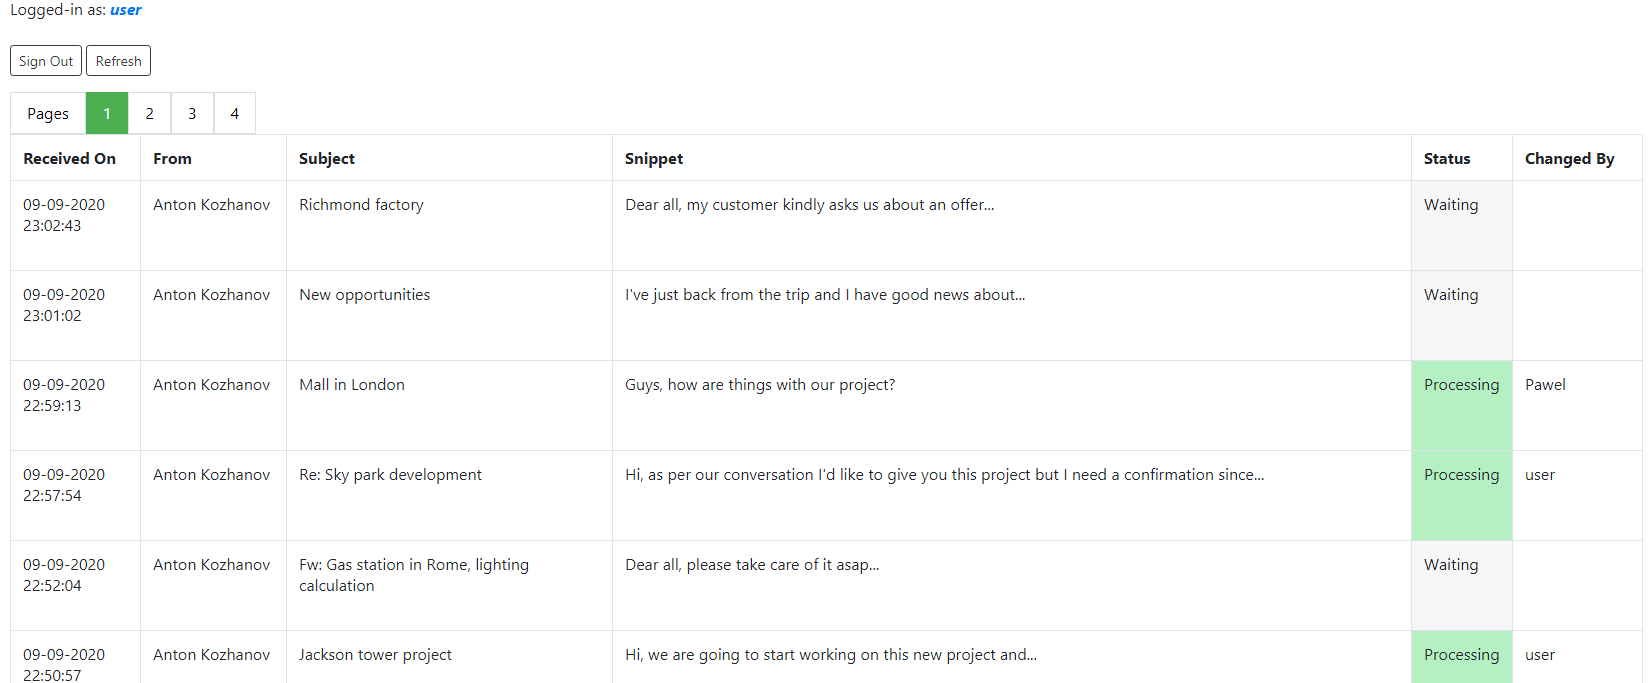
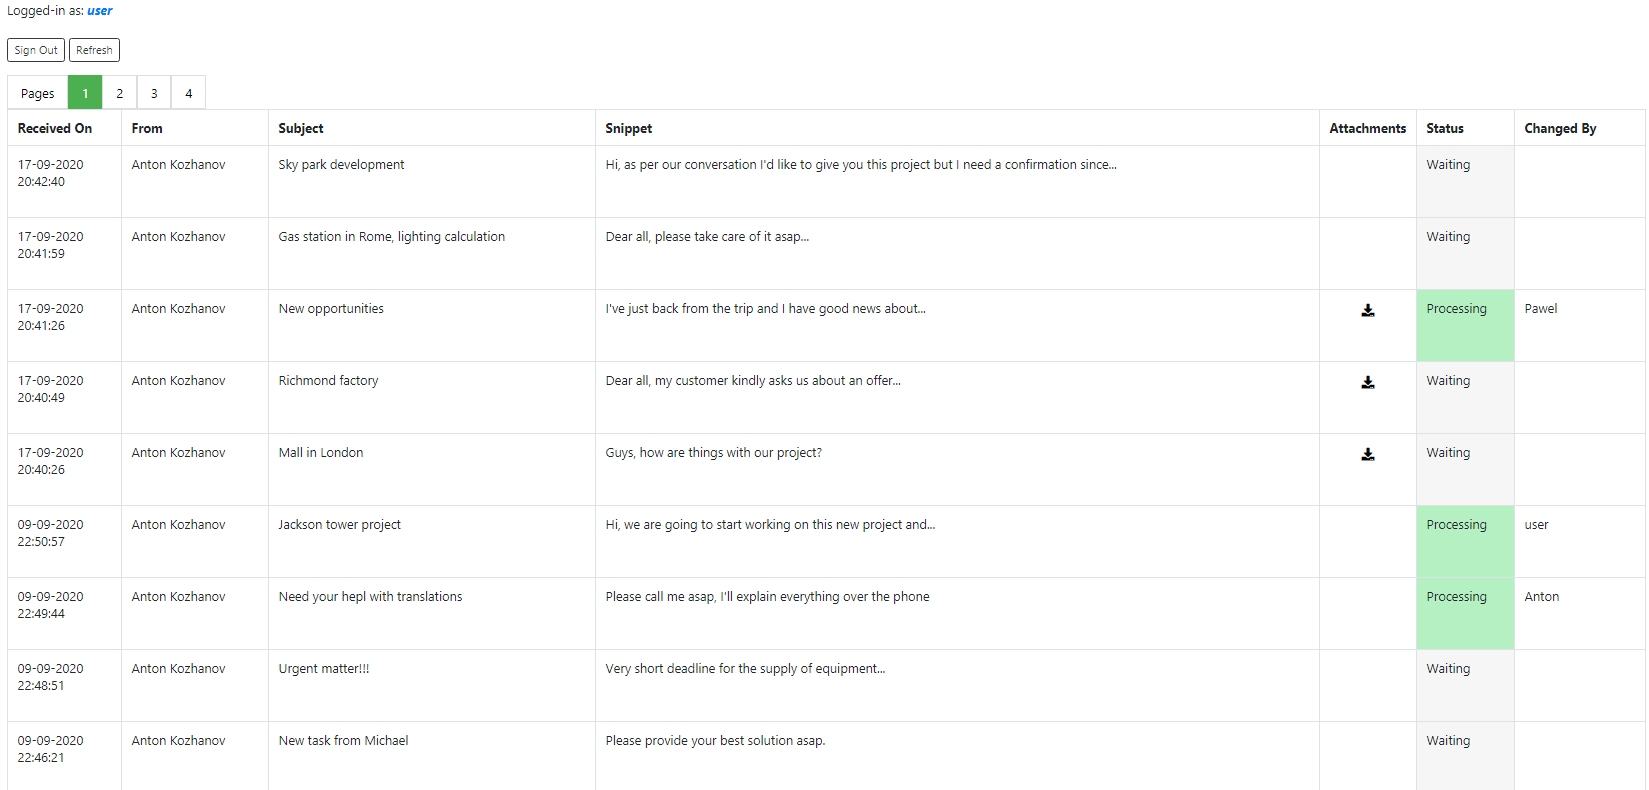
Download Attachments functionality

diff --git a/src/main/java/pl/kozhanov/TaskManager/service/TaskParserService.java b/src/main/java/pl/kozhanov/TaskManager/service/TaskParserService.java
@@ -9,26 +9,25 @@ import com.google.api.client.googleapis.javanet.GoogleNetHttpTransport;
 import com.google.api.client.http.javanet.NetHttpTransport;
 import com.google.api.client.json.JsonFactory;
 import com.google.api.client.json.jackson2.JacksonFactory;
+import com.google.api.client.util.Base64;
+import com.google.api.client.util.StringUtils;
 import com.google.api.client.util.store.FileDataStoreFactory;
 import com.google.api.services.gmail.Gmail;
 import com.google.api.services.gmail.GmailScopes;
-import com.google.api.services.gmail.model.ListMessagesResponse;
-import com.google.api.services.gmail.model.Message;
-import com.google.api.services.gmail.model.MessagePartHeader;
-import com.google.api.services.gmail.model.ModifyMessageRequest;
+import com.google.api.services.gmail.model.*;
 import org.springframework.stereotype.Component;
+import pl.kozhanov.TaskManager.domain.Attachment;
 import pl.kozhanov.TaskManager.domain.Task;
 
-import java.io.FileNotFoundException;
-import java.io.IOException;
-import java.io.InputStream;
-import java.io.InputStreamReader;
+import java.io.*;
 import java.security.GeneralSecurityException;
 import java.time.Instant;
 import java.util.ArrayList;
 import java.util.Collections;
 import java.util.List;
 import java.util.stream.Collectors;
+import java.util.zip.ZipEntry;
+import java.util.zip.ZipOutputStream;
 
 @Component
 public class TaskParserService {
@@ -83,12 +82,53 @@ public class TaskParserService {
         task.setEditBy("");
         task.setSnippet(newMessage.getSnippet());
         task.setReceivedAt(Instant.ofEpochMilli(newMessage.getInternalDate()));
-        task.setSentBy(getHeader(newMessage.getPayload().getHeaders(), FROM));
-        task.setSubject(getHeader(newMessage.getPayload().getHeaders(), SUBJECT));
+        task.setSentBy(getSpecifiedHeader(newMessage.getPayload().getHeaders(), FROM));
+        task.setSubject(getSpecifiedHeader(newMessage.getPayload().getHeaders(), SUBJECT));
+        task.setHasAttachment(checkIfHasAttachment(newMessage));
+        task.setMessageId(newMessage.getId());
         return task;
     }
 
-    public String getHeader(List<MessagePartHeader> headers, String name) {
+    private boolean checkIfHasAttachment(Message newMessage) {
+        List<MessagePart> part = newMessage.getPayload().getParts();
+        return part.stream().anyMatch(p -> p.getFilename() != null && p.getFilename().length() > 0);
+    }
+
+
+    public List<Attachment> collectAttachmentsBeforeZip(String messageId) throws GeneralSecurityException, IOException {
+        List<Attachment> attachmentList = new ArrayList<>();
+        Gmail service = getGmailService();
+        Message message = service.users().messages().get(USER_ID, messageId).execute();
+        List<MessagePart> part = message.getPayload().getParts();
+        for (MessagePart p : part) {
+            if (p.getFilename() != null && p.getFilename().length() > 0) {
+                String attId = p.getBody().getAttachmentId();
+                MessagePartBody attachPart = service.users().messages().attachments().get(USER_ID, p.getPartId(), attId).execute();
+                attachmentList.add(new Attachment(Base64.decodeBase64(attachPart.getData()), p.getFilename()));
+            }
+        }
+        return attachmentList;
+    }
+
+    public Attachment getZipAttachment(String messageId) throws IOException, GeneralSecurityException {
+        ByteArrayOutputStream baos = new ByteArrayOutputStream();
+        ZipOutputStream zos = new ZipOutputStream(baos);
+        for (Attachment attachment : collectAttachmentsBeforeZip(messageId)) {
+            String filename = attachment.getFileName();
+            ZipEntry entry = new ZipEntry(filename);
+            entry.setSize(attachment.getBody().length);
+            zos.putNextEntry(entry);
+            zos.write(attachment.getBody());
+            zos.closeEntry();
+        }
+        zos.close();
+        baos.close();
+        return new Attachment(baos.toByteArray(), "attachment.zip");
+
+    }
+
+
+    public String getSpecifiedHeader(List<MessagePartHeader> headers, String name) {
         return headers.stream()
                 .filter(header -> header.getName().equals(name))
                 .map(

diff --git a/src/main/java/pl/kozhanov/TaskManager/controller/EditTaskController.java b/src/main/java/pl/kozhanov/TaskManager/controller/EditTaskController.java
@@ -1,13 +1,20 @@
 package pl.kozhanov.TaskManager.controller;
 
 import org.springframework.beans.factory.annotation.Autowired;
+import org.springframework.core.io.ByteArrayResource;
+import org.springframework.core.io.Resource;
+import org.springframework.http.HttpHeaders;
+import org.springframework.http.MediaType;
+import org.springframework.http.ResponseEntity;
 import org.springframework.security.access.prepost.PreAuthorize;
 import org.springframework.stereotype.Controller;
-import org.springframework.web.bind.annotation.GetMapping;
-import org.springframework.web.bind.annotation.PathVariable;
-import org.springframework.web.bind.annotation.PostMapping;
-import org.springframework.web.bind.annotation.RequestMapping;
+import org.springframework.web.bind.annotation.*;
 import pl.kozhanov.TaskManager.repos.TaskRepo;
+import pl.kozhanov.TaskManager.service.TaskParserService;
+
+import javax.servlet.http.HttpServletResponse;
+import java.io.IOException;
+import java.security.GeneralSecurityException;
 
 /**
  * @author Anton Kozhanov
@@ -21,6 +28,9 @@ public class EditTaskController {
     @Autowired
     private TaskRepo taskRepo;
 
+    @Autowired
+    private TaskParserService taskParserService;
+
     @GetMapping("delete/{taskId}")
     public String deleteUser(@PathVariable String taskId) {
         taskRepo.delete(taskRepo.findById(Integer.parseInt(taskId)));
@@ -31,6 +41,23 @@ public class EditTaskController {
     public String deleteAll() {
         taskRepo.deleteAll();
         return "redirect:/";
+    }
+
+    @GetMapping("getAttachment/{messageId}")
+    @ResponseBody
+    public ResponseEntity<Resource> getAttachment(@PathVariable String messageId) throws GeneralSecurityException, IOException {
+        HttpHeaders headers = new HttpHeaders();
+        String fName = taskParserService.getZipAttachment(messageId).getFileName();
+        String fNameHeaderValue = "attachment;" + " " + "filename=" + fName;
+        headers.add(HttpHeaders.CONTENT_DISPOSITION, fNameHeaderValue);
+        headers.add("Cache-Control", "no-cache, no-store, must-revalidate");
+        headers.add("Pragma", "no-cache");
+        headers.add("Expires", "0");
+        return ResponseEntity.ok()
+                .headers(headers)
+                .contentLength(taskParserService.getZipAttachment(messageId).getBody().length)
+                .contentType(MediaType.APPLICATION_OCTET_STREAM)
+                .body(new ByteArrayResource(taskParserService.getZipAttachment(messageId).getBody()));
     }
 
 }

diff --git a/src/main/java/pl/kozhanov/TaskManager/domain/Task.java b/src/main/java/pl/kozhanov/TaskManager/domain/Task.java
@@ -21,6 +21,8 @@ public class Task {
     private String snippet;
     private String status;
     private String editBy;
+    private boolean hasAttachment;
+    private String messageId;
 
     public Task() {
     }
@@ -88,5 +90,21 @@ public class Task {
 
     public void setEditBy(String editBy) {
         this.editBy = editBy;
+    }
+
+    public boolean isHasAttachment() {
+        return hasAttachment;
+    }
+
+    public void setHasAttachment(boolean hasAttachment) {
+        this.hasAttachment = hasAttachment;
+    }
+
+    public String getMessageId() {
+        return messageId;
+    }
+
+    public void setMessageId(String messageId) {
+        this.messageId = messageId;
     }
 }

diff --git a/src/main/java/pl/kozhanov/TaskManager/service/TaskViewProjection.java b/src/main/java/pl/kozhanov/TaskManager/service/TaskViewProjection.java
@@ -1,7 +1,6 @@
 package pl.kozhanov.TaskManager.service;
 
 import java.time.Instant;
-import java.time.LocalDateTime;
 import java.time.ZoneId;
 import java.time.ZonedDateTime;
 import java.time.format.DateTimeFormatter;
@@ -21,6 +20,10 @@ public interface TaskViewProjection {
     String getStatus();
 
     String getEditBy();
+
+    boolean getHasAttachment();
+
+    String getMessageId();
 
     default String getReceivedAtFormatted() {
         return DateTimeFormatter.ofPattern("dd-MM-yyyy HH:mm:ss").format(ZonedDateTime.ofInstant(getReceivedAt(), ZoneId.systemDefault()));

diff --git a/src/main/java/pl/kozhanov/TaskManager/domain/Attachment.java b/src/main/java/pl/kozhanov/TaskManager/domain/Attachment.java
@@ -1,0 +1,29 @@
+package pl.kozhanov.TaskManager.domain;
+
+public class Attachment {
+
+    private byte[] body;
+
+    private String fileName;
+
+    public Attachment(byte[] body, String fileName) {
+        this.body = body;
+        this.fileName = fileName;
+    }
+
+    public byte[] getBody() {
+        return body;
+    }
+
+    public void setBody(byte[] body) {
+        this.body = body;
+    }
+
+    public String getFileName() {
+        return fileName;
+    }
+
+    public void setFileName(String fileName) {
+        this.fileName = fileName;
+    }
+}

diff --git a/src/test/java/pl/kozhanov/TaskManager/service/TaskParserServiceTest.java b/src/test/java/pl/kozhanov/TaskManager/service/TaskParserServiceTest.java
@@ -36,6 +36,6 @@ class TaskParserServiceTest {
         mph.setName("headerName");
         mph.setValue("headerValue");
         listMph.add(mph);
-        assertEquals("headerValue", taskParserService.getHeader(listMph, "headerName"));
+        assertEquals("headerValue", taskParserService.getSpecifiedHeader(listMph, "headerName"));
     }
 }
